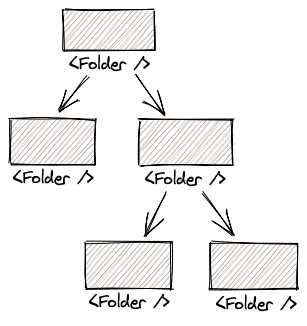
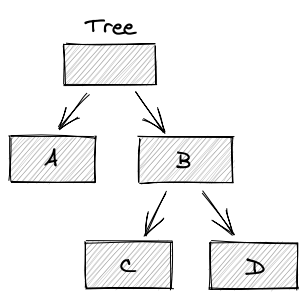
Add to recursive component

Changed region(s): [[0.0293, 0.0, 0.9967, 0.9933]]

diff --git a/content/blog/recursive-components/components/Folder.js b/content/blog/recursive-components/components/Folder.js
@@ -6,7 +6,7 @@ export default function Folder({ folder }) {
   const hasChildren = !!folder.children
 
   return (
-    <li className="mdx">
+    <li style={{ marginTop: '4px' }}>
       {hasChildren && (
         <FolderButton
           open={open}
@@ -15,14 +15,22 @@ export default function Folder({ folder }) {
       )}
       <span
         className="mdx"
-        style={{ paddingLeft: !hasChildren ? '26px' : '4px' }}
+        style={{ paddingLeft: !hasChildren ? '0px' : '6px' }}
       >
         {folder.name}
       </span>
       {open && hasChildren ? (
-        <ul className="mdx">
+        <ul
+          style={{
+            margin: '4px 10px',
+            boxSizing: 'border-box',
+            listStyle: 'none',
+            paddingLeft: '20px',
+            borderLeft: '1px dashed lightgray',
+          }}
+        >
           {folder.children.map(x => (
-            <Folder folder={x}></Folder>
+            <Folder key={x.name} folder={x}></Folder>
           ))}
         </ul>
       ) : null}
@@ -32,7 +40,19 @@ export default function Folder({ folder }) {
 
 const FolderButton = ({ open, onClick }) => {
   return (
-    <button className="mdx" onClick={onClick}>
+    <button
+      style={{
+        width: '22px',
+        padding: '2px',
+        borderRadius: '5px',
+        border: '1px solid lightgray',
+        color: 'black',
+        margin: 0,
+        backgroundColor: 'transparent',
+        lineHeight: 1,
+      }}
+      onClick={onClick}
+    >
       {open ? '-' : '+'}
     </button>
   )

diff --git a/src/components/superstylin.css b/src/components/superstylin.css
@@ -353,34 +353,37 @@ td:not(.mdx) {
 
 /* Code
   ––––––––––––––––––––––––––––––––– */
-code:not(.mdx) {
+code[class*='language-']:not(.mdx) {
   font-family: 'SFMono-Regular', Consolas, 'Liberation Mono', Menlo, Courier,
     monospace;
-  font-size: 0.8rem;
-  white-space: nowrap;
-  background: #f6f6f6;
-  padding: 0 0.328rem;
-  display: inline-block;
-  vertical-align: middle;
+  font-size: 0.64rem;
+  line-height: 1;
+  /* white-space: nowrap; */
+  /* background: #f6f6f6; */
+  /* padding: 0 0.328rem; */
+  /* display: inline-block; */
+  /* vertical-align: middle; */
 }
 
-p > code:not(.mdx) {
+p > code[class*='language-']:not(.mdx) {
   white-space: normal;
+  line-height: 1.563em;
+  font-size: 0.8rem;
 }
 
-pre > code:not(.mdx) {
-  line-height: 1.563em;
-  display: block;
-  padding: 1rem;
-  white-space: pre;
-  margin-bottom: 1.563rem;
-  overflow: scroll;
+pre[class*='language-']:not(.mdx) {
+  line-height: 1;
+  /* display: block; */
+  /* padding: 1rem; */
+  /* white-space: pre; */
+  /* margin-bottom: 1.563rem; */
+  /* overflow: scroll; */
 }
 
 /* Forces a new-line at the end of a code block for layout purposes. */
-pre > code::after:not(.mdx) {
+/* pre > code[class*='language-']::after:not(.mdx) {
   content: ' ';
-}
+} */
 
 /* Blockquote
   ––––––––––––––––––––––––––––––––– */

diff --git a/src/pages/talks.js b/src/pages/talks.js
@@ -1,0 +1,47 @@
+import React from 'react'
+import { graphql } from 'gatsby'
+import Layout from '../components/Layout'
+import SEO from '../components/Seo'
+
+class TalksPage extends React.Component {
+  render() {
+    const talks = [
+      {
+        name: 'Mob Programming: Everything is better when shared',
+        date: '2019-12-11',
+        event: {
+          name: 'Swenug',
+          url: 'https://www.meetup.com/Swenug-Stockholm/events/266611273/',
+        },
+        link: null,
+      },
+    ]
+
+    return (
+      <Layout location={this.props.location}>
+        <SEO title={`talks`} />
+        <h1>Talks</h1>
+        {talks.map(t => (
+          <div key={t.date}>
+            <span style={{ color: 'gray' }}>{t.date} - </span>
+            <span>{t.name} @ </span>
+            <a href={t.event.url}>{t.event.name}</a>
+          </div>
+        ))}
+        <hr />
+      </Layout>
+    )
+  }
+}
+
+export default TalksPage
+
+export const pageQuery = graphql`
+  query {
+    site {
+      siteMetadata {
+        title
+      }
+    }
+  }
+`

diff --git a/content/blog/recursive-components/components/Folders.js b/content/blog/recursive-components/components/Folders.js
@@ -1,10 +1,18 @@
 import React from 'react'
-import './Folders.css'
 import Folder from './Folder'
 
 function Folders() {
   return (
-    <ul className="mdx" style={{ border: 'none', marginBottom: '2rem' }}>
+    <ul
+      style={{
+        margin: '4px 10px',
+        boxSizing: 'border-box',
+        listStyle: 'none',
+        paddingLeft: '20px',
+        border: 'none',
+        marginBottom: '2rem',
+      }}
+    >
       <Folder folder={data}></Folder>
     </ul>
   )
@@ -13,13 +21,13 @@ function Folders() {
 export default Folders
 
 const data = {
-  name: 'A folder with stuff',
+  name: 'Desktop folder',
   children: [
     {
-      name: 'Important stuff',
+      name: 'Pics',
       children: [
         {
-          name: 'Memes',
+          name: 'Cats',
         },
       ],
     },

diff --git a/src/templates/blog-post.js b/src/templates/blog-post.js
@@ -88,6 +88,7 @@ export const pageQuery = graphql`
         date(formatString: "MMMM DD, YYYY")
         description
         dev
+        draft
       }
     }
   }
